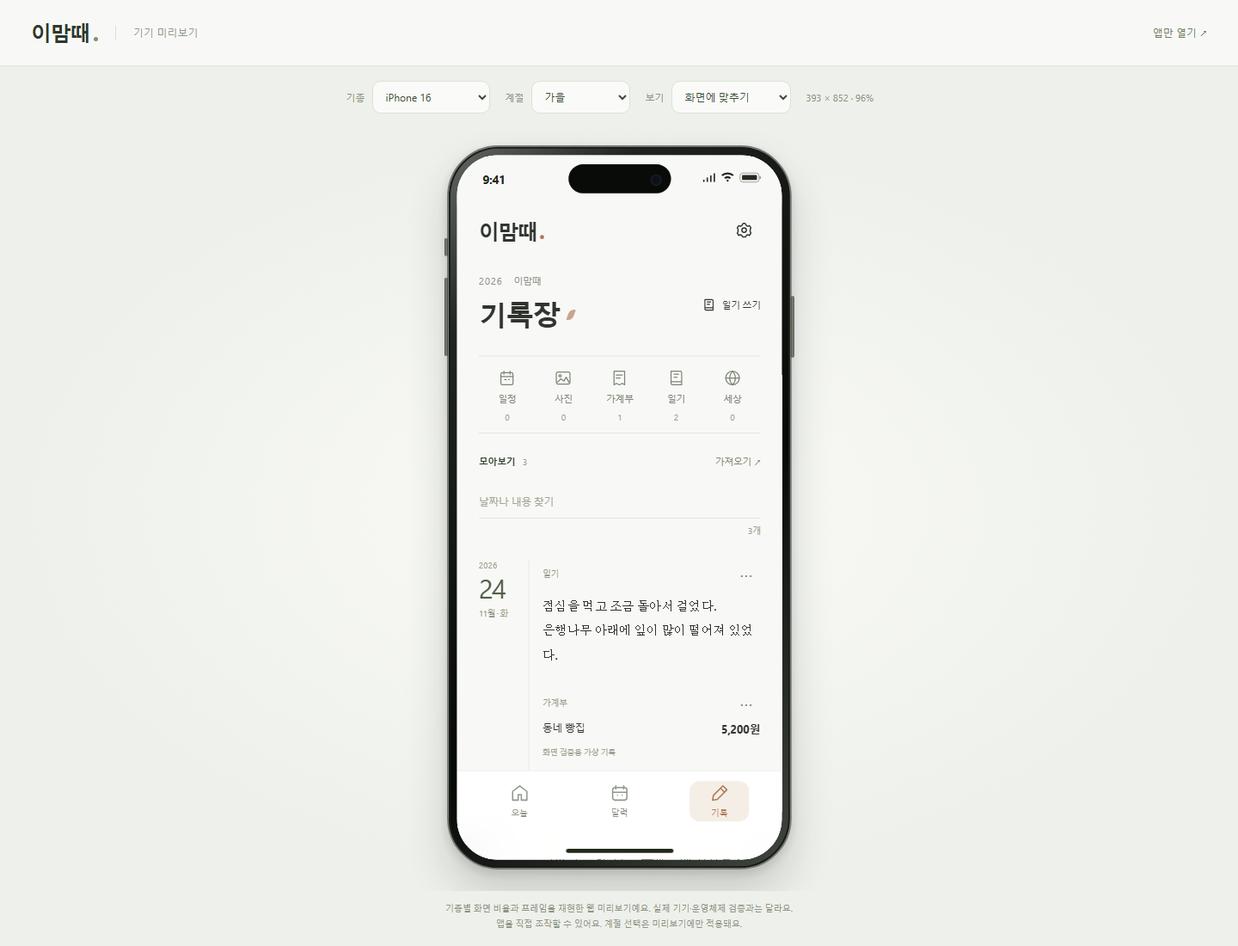
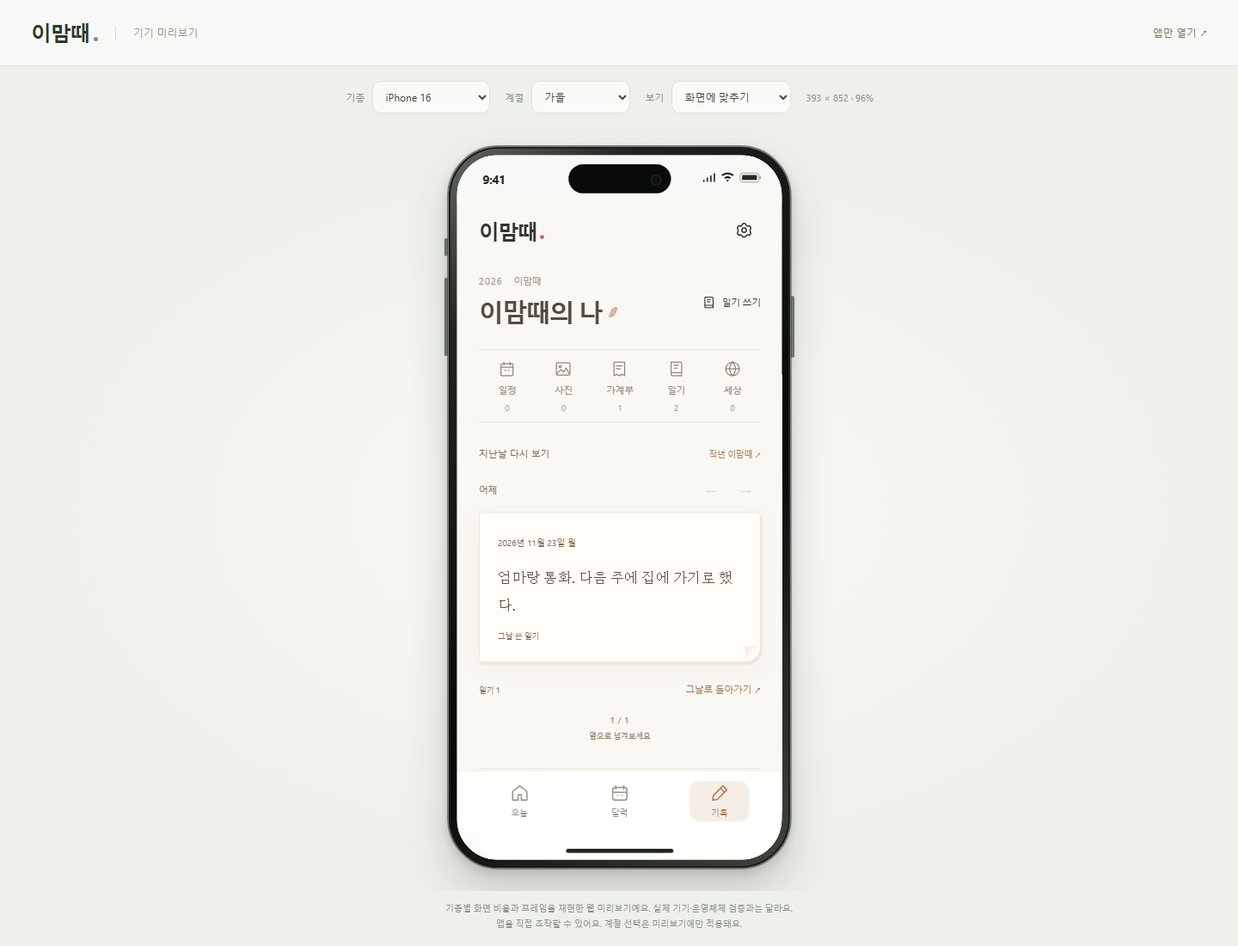
Make records a warm recollection experience

diff --git a/app.js b/app.js
@@ -5,6 +5,7 @@ import {REPEATS,scheduleDates} from './planning.js';
 import {WEATHER_REGIONS,WEATHER_SOURCE,weatherDescription} from './weather-data.js';
 import {naverStatus,naverCalendars,syncNaver,naverPanel,calendarChoices} from './naver.js';
 import {DEVICES,previewOptions} from './devices.js';
+import {memoryDays,suggestedMemory,memoryStage} from './recollection.js';
 
 const devicePreview=previewOptions(location.search);
 if(devicePreview) {
@@ -43,6 +44,8 @@ let journalRange = null;
 let expenseMonth=dateKey(new Date()).slice(0,7);
 let pendingDiary=null;
 let pendingWeather=null;
+let rememberedDate=null;
+let swipeStart=null;
 let naverRunning=false;
 let naverConfigured=false;
 let lastAutoAttempt='';
@@ -75,6 +78,7 @@ function completionSummary() {
   return `<div class="completion-summary"><span>${complete === tasks.length ? '오늘의 작은 약속을 모두 지켰어요.' : '하나씩, 나의 속도로 챙겨요.'}</span><span>${complete}/${tasks.length}</span></div><progress class="completion-progress" max="${tasks.length}" value="${complete}" aria-label="오늘 할 일 완료 현황"></progress>`;
 }
 function render() {
+  document.body.classList.toggle('records-view',page==='records');
   const season = theme();
   document.documentElement.style.setProperty('--accent', season.color);
   document.documentElement.style.setProperty('--tint', season.tint);
@@ -114,9 +118,10 @@ function recordCard(entry) {
 function renderRecords() {
   if (journalFilter !== 'all' && !state.categories.includes(journalFilter)) journalFilter = 'all';
   main.innerHTML = journalShell(state, recordQuery, journalFilter);
+  renderMemoryStage();
   if(journalFilter==='expenses') document.querySelector('#record-search').insertAdjacentHTML('beforebegin',expensePanel(state,expenseMonth));
   const world=main.querySelector('.world-note');if(world) world.insertAdjacentHTML('beforeend','<button class="small-button" data-weather>그날의 날씨 찾기 ↗</button>');
-  if (journalRange) document.querySelector('#record-search').insertAdjacentHTML('beforebegin', `<div class="preview-banner"><span>작년 이맘때 · ${journalRange.start} ~ ${journalRange.end}</span><button data-clear-range>전체 기간</button></div>`);
+  if (journalRange) document.querySelector('#record-search').insertAdjacentHTML('beforebegin', `<div class="preview-banner"><span>${journalRange.start===journalRange.end?'그날의 기록':'작년 이맘때'} · ${journalRange.start} ~ ${journalRange.end}</span><button data-clear-range>전체 기간</button></div>`);
   renderRecordResults();
 }
 function renderRecordResults() {
@@ -129,6 +134,37 @@ function renderRecordResults() {
   results.innerHTML = result.html;
 }
 function inRange(item) { return item.date >= journalRange.start && item.date <= journalRange.end; }
+function availableMemories() {
+  return memoryDays(state,new Date(),journalFilter).filter(day=>!journalRange || inRange(day));
+}
+function renderMemoryStage(direction=0) {
+  const target=document.querySelector('#recollection');if(!target)return;
+  const days=availableMemories();
+  if(!days.some(day=>day.date===rememberedDate))rememberedDate=suggestedMemory(days);
+  target.hidden=Boolean(recordQuery.trim());
+  target.innerHTML=memoryStage(days,rememberedDate,{direction,rangeActive:Boolean(journalRange)});
+}
+function stepMemory(step) {
+  const days=availableMemories();const index=days.findIndex(day=>day.date===rememberedDate);
+  const next=days[index+step];if(!next)return;
+  const focused=document.activeElement?.dataset.memoryStep;
+  const stageFocused=document.activeElement?.hasAttribute('data-memory-stage');
+  rememberedDate=next.date;renderMemoryStage(step);
+  if(stageFocused) document.querySelector('[data-memory-stage]')?.focus({preventScroll:true});
+  else if(focused){const button=document.querySelector(`[data-memory-step="${focused}"]`);if(button && !button.disabled)button.focus({preventScroll:true});else document.querySelector('[data-memory-stage]')?.focus({preventScroll:true});}
+}
+document.addEventListener('pointerdown',event=>{
+  if(event.target.closest('[data-memory-stage]') && event.isPrimary)swipeStart={x:event.clientX,y:event.clientY,id:event.pointerId};
+});
+document.addEventListener('pointerup',event=>{
+  if(!swipeStart || swipeStart.id!==event.pointerId)return;
+  const deltaX=event.clientX-swipeStart.x,deltaY=event.clientY-swipeStart.y;swipeStart=null;
+  if(Math.abs(deltaX)>45 && Math.abs(deltaX)>Math.abs(deltaY)*1.5)stepMemory(deltaX<0?1:-1);
+});
+document.addEventListener('pointercancel',()=>{swipeStart=null;});
+document.addEventListener('keydown',event=>{
+  if(event.target.matches('[data-memory-stage]') && ['ArrowLeft','ArrowRight'].includes(event.key)){event.preventDefault();stepMemory(event.key==='ArrowRight'?1:-1);}
+});
 function openModal(title, body) {
   document.querySelector('#modal-content').innerHTML = `<div class="modal-head"><h2 id="modal-title">${title}</h2><button class="icon-button" data-close aria-label="닫기">${icon('close')}</button></div>${body}`;
   modal.showModal();
@@ -348,6 +384,11 @@ document.addEventListener('click', event => {
   else if ('connections' in d) openConnections();
   else if ('naverList' in d) loadNaverCalendars(button);
   else if ('naverSync' in d) runNaverSync();
+  else if ('memoryStep' in d) stepMemory(Number(d.memoryStep));
+  else if ('memoryOpen' in d) {
+    journalRange={start:d.memoryOpen,end:d.memoryOpen};renderRecords();
+    document.querySelector('#record-results').scrollIntoView({behavior:matchMedia('(prefers-reduced-motion: reduce)').matches?'auto':'smooth',block:'start'});
+  }
   else if ('weather' in d) openWeather();
   else if ('saveWeather' in d) saveWeather();
   else if ('journalFilter' in d) { journalFilter=d.journalFilter; renderRecords(); }
@@ -365,7 +406,7 @@ document.addEventListener('click', event => {
   else if ('addRecord' in d) openRecord(d.addRecord);
   else if ('editTask' in d) { const task = state.tasks.find(t => t.id === d.editTask); if (task) openTask(task.date, task.title, task.id); }
   else if ('editRecord' in d) { const entry = state.entries.find(e => e.id === d.editRecord); if (entry) openRecord(entry.date, entry.text, entry.id); }
-  else if ('clearSearch' in d) { recordQuery = ''; document.querySelector('#record-search').value = ''; renderRecordResults(); document.querySelector('#record-search').focus(); }
+  else if ('clearSearch' in d) { recordQuery = ''; document.querySelector('#record-search').value = ''; renderRecordResults();renderMemoryStage(); document.querySelector('#record-search').focus(); }
   else if ('confirmImport' in d && pendingImport) {
     const result = mergeBackup(state, pendingImport);
     if (!save(result.state)) { document.querySelector('#restore-error').textContent = '기기에 저장하지 못했어요. 기존 데이터는 유지했어요. 저장 공간을 확인하고 다시 시도해 주세요.'; return; }
@@ -427,7 +468,7 @@ document.addEventListener('change', event => {
   }
 });
 document.addEventListener('input', event => {
-  if (event.target.id === 'record-search') { recordQuery = event.target.value; renderRecordResults(); }
+  if (event.target.id === 'record-search') { recordQuery = event.target.value; renderRecordResults(); const stage=document.querySelector('#recollection');if(stage)stage.hidden=Boolean(recordQuery.trim()); }
   else if (event.target.id === 'record-text') document.querySelector('#character-count').textContent = `${event.target.value.length}/1000`;
 });
 document.addEventListener('submit', event => {

diff --git a/styles.css b/styles.css
@@ -715,3 +715,62 @@ html[data-device-preview] .toast {bottom:calc(100px + var(--device-safe-bottom))
 .archive-empty .small-button {font-size:11px;margin:auto;}
 .empty-actions .small-button {margin:0;}
 @media(max-width:360px) {.archive-heading h1{font-size:30px}.archive-day{grid-template-columns:36px minmax(0,1fr);gap:12px}.archive-content{padding-left:12px}.archive-day-number{font-size:29px}.archive-sections span{font-size:10px}.archive-content .expense-amount{font-size:12px}}
+
+/* Recollection puts a real past moment before the archive. */
+.records-view {--page:#faf8f3;}
+.records-view .app-shell {background:var(--page);}
+.records-view .archive-heading {margin-bottom:22px;}
+.records-view .archive-heading h1 {font-size:30px;font-weight:550;color:#554b3d;}
+.records-view .archive-mark {background:#bd9675;}
+.records-view .archive-edition {color:#9d9485;}
+.records-view .archive-sections {border-color:#e7e1d5;}
+.records-view .archive-sections button {min-height:80px;color:#928575;padding:12px 2px 10px;}
+.records-view .archive-sections button[aria-pressed=true] {color:#98724d;background:linear-gradient(0deg,#f3eadf,transparent 70%);}
+.records-view .archive-sections button[aria-pressed=true]:after {background:#bb9675;}
+.memory-intro {display:flex;align-items:center;justify-content:space-between;gap:15px;margin:22px 0 12px;}
+.memory-intro > span {font-size:11px;letter-spacing:.3px;color:#978775;}
+.memory-intro > button {font-size:10px;padding:8px 0;color:#ab815d;min-height:32px;}
+.recollection {padding-bottom:16px;margin-bottom:18px;}
+.recollection-top {display:flex;align-items:center;justify-content:space-between;margin-bottom:10px;}
+.recollection-top > span {font-size:11px;color:#a2805e;}
+.memory-controls {display:flex;gap:5px;}
+.memory-controls button {width:36px;height:32px;font-size:18px;border-radius:50%;color:#947655;}
+.memory-controls button:hover:not(:disabled) {background:#f0e8dc;}
+.memory-controls button:disabled {opacity:.25;cursor:default;}
+.memory-stage {touch-action:pan-y;outline-offset:5px;border-radius:4px;}
+.memory-paper {position:relative;overflow:hidden;background:#fffdf8;border:1px solid #eee5d7;border-radius:4px 4px 18px 4px;box-shadow:0 9px 24px #8b6a4410,2px 3px 0 #f1eadf;}
+.memory-paper:after {content:'';position:absolute;right:0;bottom:0;width:18px;height:18px;background:linear-gradient(135deg,#efe7d7 0%,#fffaf1 48%,transparent 50%);pointer-events:none;}
+.recollection-figure {margin:10px 10px 0;}
+.recollection-photo {display:block;width:100%;height:175px;object-fit:cover;border-radius:2px;}
+.recollection-writing {padding:23px 22px 25px;}
+.recollection-writing time {font-size:10px;letter-spacing:.2px;color:#a3947f;}
+.recollection-writing blockquote {font-family:Georgia,'Batang',serif;font-size:17px;font-weight:400;line-height:1.95;color:#69543e;white-space:pre-wrap;overflow-wrap:anywhere;margin:19px 0 14px;display:-webkit-box;-webkit-line-clamp:4;-webkit-box-orient:vertical;overflow:hidden;}
+.memory-origin {font-size:9px;color:#b1a18c;margin:0;}
+.memory-photo-caption {font-family:Georgia,'Batang',serif;font-size:17px;color:#69543e;}
+.recollection-bottom {display:flex;justify-content:space-between;align-items:center;gap:10px;margin-top:15px;}
+.recollection-bottom > span {font-size:9px;line-height:1.8;color:#aa9a86;}
+.recollection-bottom > button {font-size:11px;color:#9e7751;min-height:36px;padding:6px 0;flex-shrink:0;}
+.memory-position {font-size:9px;letter-spacing:1px;color:#ad9c87;text-align:center;font-variant-numeric:tabular-nums;margin:13px 0 0;}
+.memory-position span {display:block;font-size:9px;letter-spacing:0;color:#c1b39f;margin-top:6px;}
+.turn-older {animation:memory-older .32s ease-out both;}
+.turn-newer {animation:memory-newer .32s ease-out both;}
+@keyframes memory-older {from{opacity:.25;transform:translateX(13px) rotate(.6deg)}to{opacity:1;transform:none}}
+@keyframes memory-newer {from{opacity:.25;transform:translateX(-13px) rotate(-.6deg)}to{opacity:1;transform:none}}
+.recollection-empty {display:flex;align-items:center;gap:13px;padding:15px 0 24px;min-height:145px;}
+.recollection-friend {width:88px;height:115px;flex-shrink:0;background-image:url('assets/seasonal-companion.png');background-size:400% auto;background-position:var(--position) center;mix-blend-mode:multiply;mask-image:linear-gradient(0deg,transparent,#000 15%,#000 88%,transparent);animation:breathe 7s ease-in-out infinite;}
+.recollection-overline {font-size:9px;letter-spacing:.7px;color:#b6a18a;margin:0 0 9px;}
+.recollection-empty h2 {font-family:Georgia,'Batang',serif;font-size:16px;font-weight:400;color:#886b4e;line-height:1.7;margin:0;}
+.recollection-empty div > p:not(.recollection-overline) {font-size:10px;line-height:1.9;color:#ac9a83;margin:10px 0;}
+.recollection-empty .small-button {padding:5px 0;font-size:10px;color:#a47e55;}
+.records-view .archive-tools {border-top:1px solid #e7e0d4;padding-top:17px;}
+.records-view .archive-all {font-size:11px;color:#a19584;}
+.records-view .archive-all[aria-pressed=true] {color:#897358;font-weight:500;}
+.records-view .archive-day {border-color:#e9e2d7;}
+.records-view .archive-content {border-color:#e9e2d7;}
+.records-view .archive-day-number {color:#8e795d;}
+.records-view .archive-content .diary-entry > p:not(.source-caption) {color:#6c604f;}
+.records-view .archive-page .world-note,.records-view .archive-storage {border-color:#e9e2d7;}
+@media(max-width:360px) {.records-view .archive-heading h1{font-size:26px}.recollection-writing{padding:20px 17px}.recollection-writing blockquote{font-size:16px}.recollection-bottom{gap:8px}.recollection-friend{width:70px;height:100px}.recollection-photo{height:150px}}
+@media(prefers-reduced-motion:reduce) {.turn-older,.turn-newer,.recollection-friend{animation:none!important}}
+.memory-intro > span,.recollection-top > span,.recollection-writing time,.memory-origin,.memory-position,.recollection-bottom > span {color:#806b53;}
+.memory-position span,.recollection-empty div > p:not(.recollection-overline),.recollection-overline {color:#8b7761;}

diff --git a/recollection.js b/recollection.js
@@ -1,0 +1,37 @@
+import {timelineItems,dateKey,lastYearRange} from './data.js';
+import {escapeHTML as e} from './journal.js';
+
+export function memoryDays(state,now=new Date(),filter='all') {
+  const today=dateKey(now),days=new Map();
+  for(const item of timelineItems(state)) {
+    if(item.date>=today || filter!=='all' && item.type!==filter)continue;
+    if(!days.has(item.date))days.set(item.date,[]);
+    days.get(item.date).push(item);
+  }
+  return [...days].map(([date,items])=>({date,items})).sort((a,b)=>b.date.localeCompare(a.date));
+}
+export function suggestedMemory(days,now=new Date()) {
+  if(!days.length)return null;
+  const range=lastYearRange(now);
+  const nearby=days.filter(day=>day.date>=range.start && day.date<=range.end);
+  return nearby.sort((a,b)=>Math.abs(Date.parse(a.date)-Date.parse(range.anchor))-Math.abs(Date.parse(b.date)-Date.parse(range.anchor)))[0]?.date || days[0].date;
+}
+export function memoryDistance(date,now=new Date()) {
+  const today=dateKey(now),range=lastYearRange(now);
+  if(date===range.anchor)return '작년 이맘때';
+  if(date>=range.start && date<=range.end)return '작년 이 무렵';
+  const difference=Math.round((Date.parse(today)-Date.parse(date))/86400000);
+  if(difference===1)return '어제';
+  return difference>0 ? `${difference.toLocaleString('ko-KR')}일 전` : '기록';
+}
+export function memoryStage(days,date,{now=new Date(),direction=0,rangeActive=false}={}) {
+  const index=days.findIndex(day=>day.date===date),day=days[index];
+  if(!day)return `<section class="recollection-empty"><div class="recollection-friend" role="img" aria-label="계절 옷을 입은 이맘때 캐릭터"></div><div><p class="recollection-overline">다시 만나는 이맘때</p><h2>${rangeActive ? '이 무렵의 기록은 아직 없어요.' : '처음 만나는 이맘때'}</h2><p>예전 사진이나 일기를 가져오면<br>이 자리에서 다시 볼 수 있어요.</p><button class="small-button" data-connections>지난 기록 가져오기 ↗</button></div></section>`;
+  const photo=day.items.find(item=>item.type==='photos');
+  const diary=day.items.find(item=>item.type==='diary');
+  const counts=[['photos','사진'],['diary','일기'],['calendar','일정'],['expenses','지출'],['world','소식']].map(([type,label])=>{const count=day.items.filter(item=>item.type===type).length;return count?`${label} ${count}`:'';}).filter(Boolean).join(' · ');
+  const other=day.items.find(item=>!['photos','diary'].includes(item.type));
+  const written=diary?.title || other?.title || photo?.text || '';
+  const fullDate=new Date(`${day.date}T12:00:00`).toLocaleDateString('ko-KR',{year:'numeric',month:'long',day:'numeric',weekday:'short'});
+  return `<section class="recollection" aria-label="지난 순간 돌아보기"><div class="recollection-top"><span>${memoryDistance(day.date,now)}</span><div class="memory-controls"><button data-memory-step="-1" aria-label="더 최근 기억" aria-controls="memory-stage" ${index<=0?'disabled':''}>←</button><button data-memory-step="1" aria-label="더 오래된 기억" aria-controls="memory-stage" ${index>=days.length-1?'disabled':''}>→</button></div></div><div id="memory-stage" class="memory-stage ${direction ? direction>0?'turn-older':'turn-newer' : ''}" data-memory-stage tabindex="0" role="group" aria-label="${e(fullDate)} 기억. 좌우 방향키나 스와이프로 넘기기"><div class="memory-paper">${photo?`<figure class="recollection-figure"><img class="recollection-photo" src="${e(photo.imageData)}" alt="${e(photo.title)}"></figure>`:''}<div class="recollection-writing"><time datetime="${day.date}">${e(fullDate)}</time>${written ? `<blockquote>${e(written)}</blockquote>` : '<p class="memory-photo-caption">그날 남긴 사진</p>'}<p class="memory-origin">${diary?'그날 쓴 일기':other?'그날 남긴 기록':'내가 선택한 사진'}</p></div></div></div><div class="recollection-bottom"><span>${counts}</span><button data-memory-open="${day.date}">그날로 돌아가기 ↗</button></div><p class="memory-position" aria-live="polite">${index+1} / ${days.length}<span>옆으로 넘겨보세요</span></p></section>`;
+}

diff --git a/journal.js b/journal.js
@@ -16,7 +16,7 @@ export function memoryCard(item) {
 export function journalShell(state, query, filter) {
   const items=timelineItems(state);
   const keys=Object.keys(CATEGORIES).filter(key=>state.categories.includes(key));
-  return `<div class="archive-page"><header class="archive-heading"><div><p class="archive-edition">${new Date().getFullYear()} <span>이맘때</span></p><h1>기록장<span class="archive-mark" aria-hidden="true"></span></h1></div><button class="archive-write" data-add-record="${dateKey(new Date())}" aria-label="기록 남기기">${sectionIcon('diary')}<span>일기 쓰기</span></button></header><nav class="archive-sections" aria-label="기록 종류" style="--section-count:${Math.max(1,keys.length)}">${keys.map(key=>`<button data-journal-filter="${key}" aria-pressed="${key===filter}" aria-label="${sectionNames[key]} ${items.filter(item=>item.type===key).length}개">${sectionIcon(key)}<span>${sectionNames[key]}</span><small>${items.filter(item=>item.type===key).length}</small></button>`).join('')}</nav><div class="archive-tools"><button class="archive-all" data-journal-filter="all" aria-pressed="${filter==='all'}">모아보기 <span>${items.length}</span></button><button class="archive-import" data-connections>가져오기 ↗</button></div><label class="sr-only" for="record-search">기록 내용이나 날짜 검색</label><input type="search" id="record-search" maxlength="1000" placeholder="날짜나 내용 찾기" value="${e(query)}" aria-controls="record-results"><p class="search-count" id="search-count" role="status"></p><div id="record-results"></div>${state.categories.includes('world') ? `<aside class="world-note"><strong>그날의 바깥</strong><button class="small-button" data-add-world>링크 남기기 ↗</button></aside>` : ''}<details class="archive-storage"><summary>저장 위치 · 백업</summary><p>이 브라우저에 저장돼요. 상단 설정에서 백업을 내려받을 수 있어요.</p></details></div>`;
+  return `<div class="archive-page"><header class="archive-heading"><div><p class="archive-edition">${new Date().getFullYear()} <span>이맘때</span></p><h1>이맘때의 나<span class="archive-mark" aria-hidden="true"></span></h1></div><button class="archive-write" data-add-record="${dateKey(new Date())}" aria-label="기록 남기기">${sectionIcon('diary')}<span>일기 쓰기</span></button></header><nav class="archive-sections" aria-label="기록 종류" style="--section-count:${Math.max(1,keys.length)}">${keys.map(key=>`<button data-journal-filter="${key}" aria-pressed="${key===filter}" aria-label="${sectionNames[key]} ${items.filter(item=>item.type===key).length}개">${sectionIcon(key)}<span>${sectionNames[key]}</span><small>${items.filter(item=>item.type===key).length}</small></button>`).join('')}</nav><div class="memory-intro"><span>지난날 다시 보기</span><button data-show-lastyear>작년 이맘때 ↗</button></div><div id="recollection"></div><div class="archive-tools"><button class="archive-all" data-journal-filter="all" aria-pressed="${filter==='all'}">남겨둔 기록 <span>${items.length}</span></button><button class="archive-import" data-connections>가져오기 ↗</button></div><label class="sr-only" for="record-search">기록 내용이나 날짜 검색</label><input type="search" id="record-search" maxlength="1000" placeholder="날짜나 내용 찾기" value="${e(query)}" aria-controls="record-results"><p class="search-count" id="search-count" role="status"></p><div id="record-results"></div>${state.categories.includes('world') ? `<aside class="world-note"><strong>그날의 바깥</strong><button class="small-button" data-add-world>링크 남기기 ↗</button></aside>` : ''}<details class="archive-storage"><summary>저장 위치 · 백업</summary><p>이 브라우저에 저장돼요. 상단 설정에서 백업을 내려받을 수 있어요.</p></details></div>`;
 }
 
 export function journalResults(state, query, filter, recordCard, taskRows) {

diff --git a/docs/RECORDS_DESIGN.md b/docs/RECORDS_DESIGN.md
@@ -1,12 +1,20 @@
-# 기록장 · 0.7.0
+# 이맘때의 나 · 0.8.0
 
-기록 기능이 부가 요소처럼 보이고 화면이 지나치게 정형적이라는 피드백을 반영했다. 날짜별 개인 기록장을 중심으로 다섯 기능을 직접 드러낸다.
+따뜻하게 지난 순간을 회상하는 경험을 앞에 둔다. 다섯 기록 메뉴 아래에서 실제 과거 사진과 그날 쓴 문장을 펼쳐보고, 해당 날짜의 전체 기록으로 이어진다.
+
+## 회상 경험
+
+- 작년 같은 날짜 전후 7일의 가장 가까운 날을 우선 펼친다. 없으면 가장 최근 과거 기록을 보여준다. 오늘·미래 기록은 아래 기록장에만 남긴다.
+- 사진과 일기가 함께 있으면 사진 아래에 실제 일기 문장을 표시한다. 자동 감상문이나 요약을 만들지 않는다. 긴 글은 일부를 보여주고 ‘그날로 돌아가기’에서 전체를 읽는다.
+- 화살표·좌우 방향키·가로 스와이프로 다른 날짜를 넘긴다. 짧은 이동과 페이드만 사용하며 자동 재생은 없다. 모션 줄이기를 지원한다.
+- 표시 종류·종류 필터·기간을 반영한다. 검색할 때는 회상을 숨겨 결과에 집중한다.
+- 빈 상태는 기존 계절 캐릭터와 가져오기 안내를 보여준다. 저장된 날짜·기록·테마는 바꾸지 않는다.
 
 ## 화면 구성
 
-- 제목: 기록장. 현재 연도와 이맘때를 작게 표시한다.
+- 제목: 이맘때의 나. 현재 연도와 이맘때를 작게 표시한다.
 - 주요 메뉴: 일정·사진·가계부·일기·세상. 아이콘, 이름, 실제 저장된 기록 수를 함께 보여준다.
-- 도구: 모아보기, 가져오기, 내용·날짜 검색.
+- 회상 아래 도구: 남겨둔 기록, 가져오기, 내용·날짜 검색.
 - 본문: 왼쪽 날짜와 오른쪽 기록. 동일한 날의 항목을 묶는다.
 - 일기: 세리프 글꼴과 문장 사이 여백. 날짜는 왼쪽에 있으므로 본문 위에서 중복 표시하지 않는다.
 - 사진: 같은 날의 사진을 묶는다. 파일 이름은 본문 제목에서 줄이되 원래 값은 보존하고 사진 대체 텍스트·수정 화면에서 확인할 수 있다.
@@ -18,7 +26,8 @@
 
 ## 확인 화면
 
-- [기록이 있는 예시](device-records-demo.png): **격리된 브라우저 테스트의 가상 일기·지출**로 구성한 화면이다. 사용자 앱에 예시 데이터를 설치하지 않는다.
+- [작년 이맘때 회상 화면](device-recollection-demo.png): **격리된 브라우저 테스트의 가상 일기**로 구성한 화면이다. 사용자 앱에 예시 데이터를 설치하지 않는다.
+- [최근 과거 기록 예시](device-records-demo.png): 테스트용 가상 일기·지출을 사용했다.
 - [빈 기록장](device-records-empty.png): 실제 데이터가 없을 때 보여주는 화면이다.
 
 <http://localhost:3000/preview#records>에서 현재 브라우저의 실제 기록장을 조작할 수 있다. 웹 기종 프레임이며 실기기 촬영 화면은 아니다.

diff --git a/README.md b/README.md
@@ -2,7 +2,7 @@
 
 **지금 챙길 일, 알아둘 것, 기억할 순간.**
 
-내 기록과 그날의 세상을 함께 돌아보는 계절 캘린더입니다. 흰색 카드와 여백을 중심으로, 중앙의 돌 캐릭터가 사계절의 옷차림과 풍경으로 변합니다. 현재 버전은 **0.7.0**입니다.
+내 기록과 그날의 세상을 함께 돌아보는 계절 캘린더입니다. 흰색 카드와 여백을 중심으로, 중앙의 돌 캐릭터가 사계절의 옷차림과 풍경으로 변합니다. 현재 버전은 **0.8.0**입니다.
 
 ![사계절 홈 디자인 시안](docs/seasonal-home-concept.png)
 
@@ -21,7 +21,7 @@ npm start
 
 **기종 프레임 미리보기:** <http://localhost:3000/preview>. iPhone 16·iPhone 16 Pro·Galaxy S24를 선택하고, 계절과 표시 배율을 바꿀 수 있습니다. 프레임 안에서 실제 앱을 조작합니다. 실제 기기나 운영체제를 실행하는 에뮬레이터는 아닙니다. [미리보기 사용법](docs/DEVICE_PREVIEW.md)
 
-**기록장 바로 보기:** <http://localhost:3000/preview#records>. 날짜를 왼쪽에 두고 일기·사진·지출을 서로 다른 형태로 읽는 화면입니다. [기록장 디자인](docs/RECORDS_DESIGN.md)
+**기억 돌아보기:** <http://localhost:3000/preview#records>. 작년 이맘때의 사진과 그날 쓴 문장을 먼저 만나고, 화살표·방향키·스와이프로 다른 날을 펼쳐봅니다. ‘그날로 돌아가기’로 날짜별 전체 기록을 읽을 수 있습니다. [회상 화면과 디자인](docs/RECORDS_DESIGN.md)
 
 ## 구현한 기능
 

diff --git a/docs/DEVELOPMENT.md b/docs/DEVELOPMENT.md
@@ -1,5 +1,16 @@
 # 구현 현황과 다음 작업
 
+## 0.8.0 · 지난 순간 다시 만나기
+
+- 기록 탭 제목을 ‘이맘때의 나’로 바꾸고 다섯 주요 메뉴 아래에 회상 화면을 추가했다. 따뜻한 회백색 바탕과 밝은 종이 질감의 여백으로 실제 사진·일기를 먼저 읽는다.
+- 작년 같은 날짜 전후 7일 안의 가장 가까운 기록을 우선 펼친다. 없으면 가장 최근 과거 기록을 보여준다. 오늘·미래 기록은 회상에서 제외하고 아래 전체 기록에는 유지한다.
+- 화살표·좌우 방향키·가로 스와이프로 날짜를 넘긴다. 사용자가 넘길 때만 짧게 움직이며 모션 줄이기 설정을 따른다. 자동 재생은 없다.
+- ‘그날로 돌아가기’는 해당 날짜의 전체 기록으로 이어진다. 표시 종류·현재 종류 필터·기간을 반영하고 검색 중에는 회상 화면을 숨긴다.
+- 빈 상태에 가짜 추억을 채우지 않는다. 사용자가 남긴 문장을 그대로 표시하며 데이터 스키마·백업·원본은 바꾸지 않는다.
+- 검증: 단위 테스트 34개와 Chrome에서 기본 날짜 선택, 화살표·방향키·스와이프, 날짜 이동, 검색, 모션 줄이기를 확인한다. 스크린샷의 글은 격리된 테스트 프로필의 가상 예시다.
+
+[회상 화면 디자인과 검증 이미지](RECORDS_DESIGN.md)
+
 ## 0.7.0 · 기록장 화면 개편
 
 - 사용자의 피드백에 따라 같은 카드가 반복되는 기록 탭을 날짜 중심의 기록장으로 바꿨다.

diff --git a/AGENTS.md b/AGENTS.md
@@ -19,6 +19,7 @@
 - 사용자에게 미리보기를 보여줄 때는 `/preview`의 기종 프레임을 우선 사용한다. iPhone 16·iPhone 16 Pro·Galaxy S24에서 선택할 수 있다. 웹 프레임 재현과 실제 기기·OS 검증을 구분한다.
 - 미리보기의 계절 변경은 저장된 테마·날짜·개인 기록을 바꾸지 않는다. 앱 조작으로 추가한 기록은 실제 로컬 저장이라는 점을 유지한다.
 - 기록 탭은 날짜 중심의 기록장이다. 다섯 종류를 주요 메뉴로 보여주고, 일기·사진·지출을 같은 카드로 반복하지 않는다. 안내 문구를 짧게 쓰고 실제 기록과 가상 디자인 예시를 구분한다.
+- 기록 탭에서는 실제 과거 사진·문장을 먼저 회상하고 해당 날짜의 전체 기록으로 이어진다. 작년 이맘때를 우선하되 없으면 최근 과거를 보여준다. 오늘·미래를 과거처럼 표시하거나 추억 문장을 지어내지 않는다. 넘기기는 사용자 조작으로만 진행하고 표시 종류 설정을 따른다.
 
 ## 날짜·정보·데이터
 
